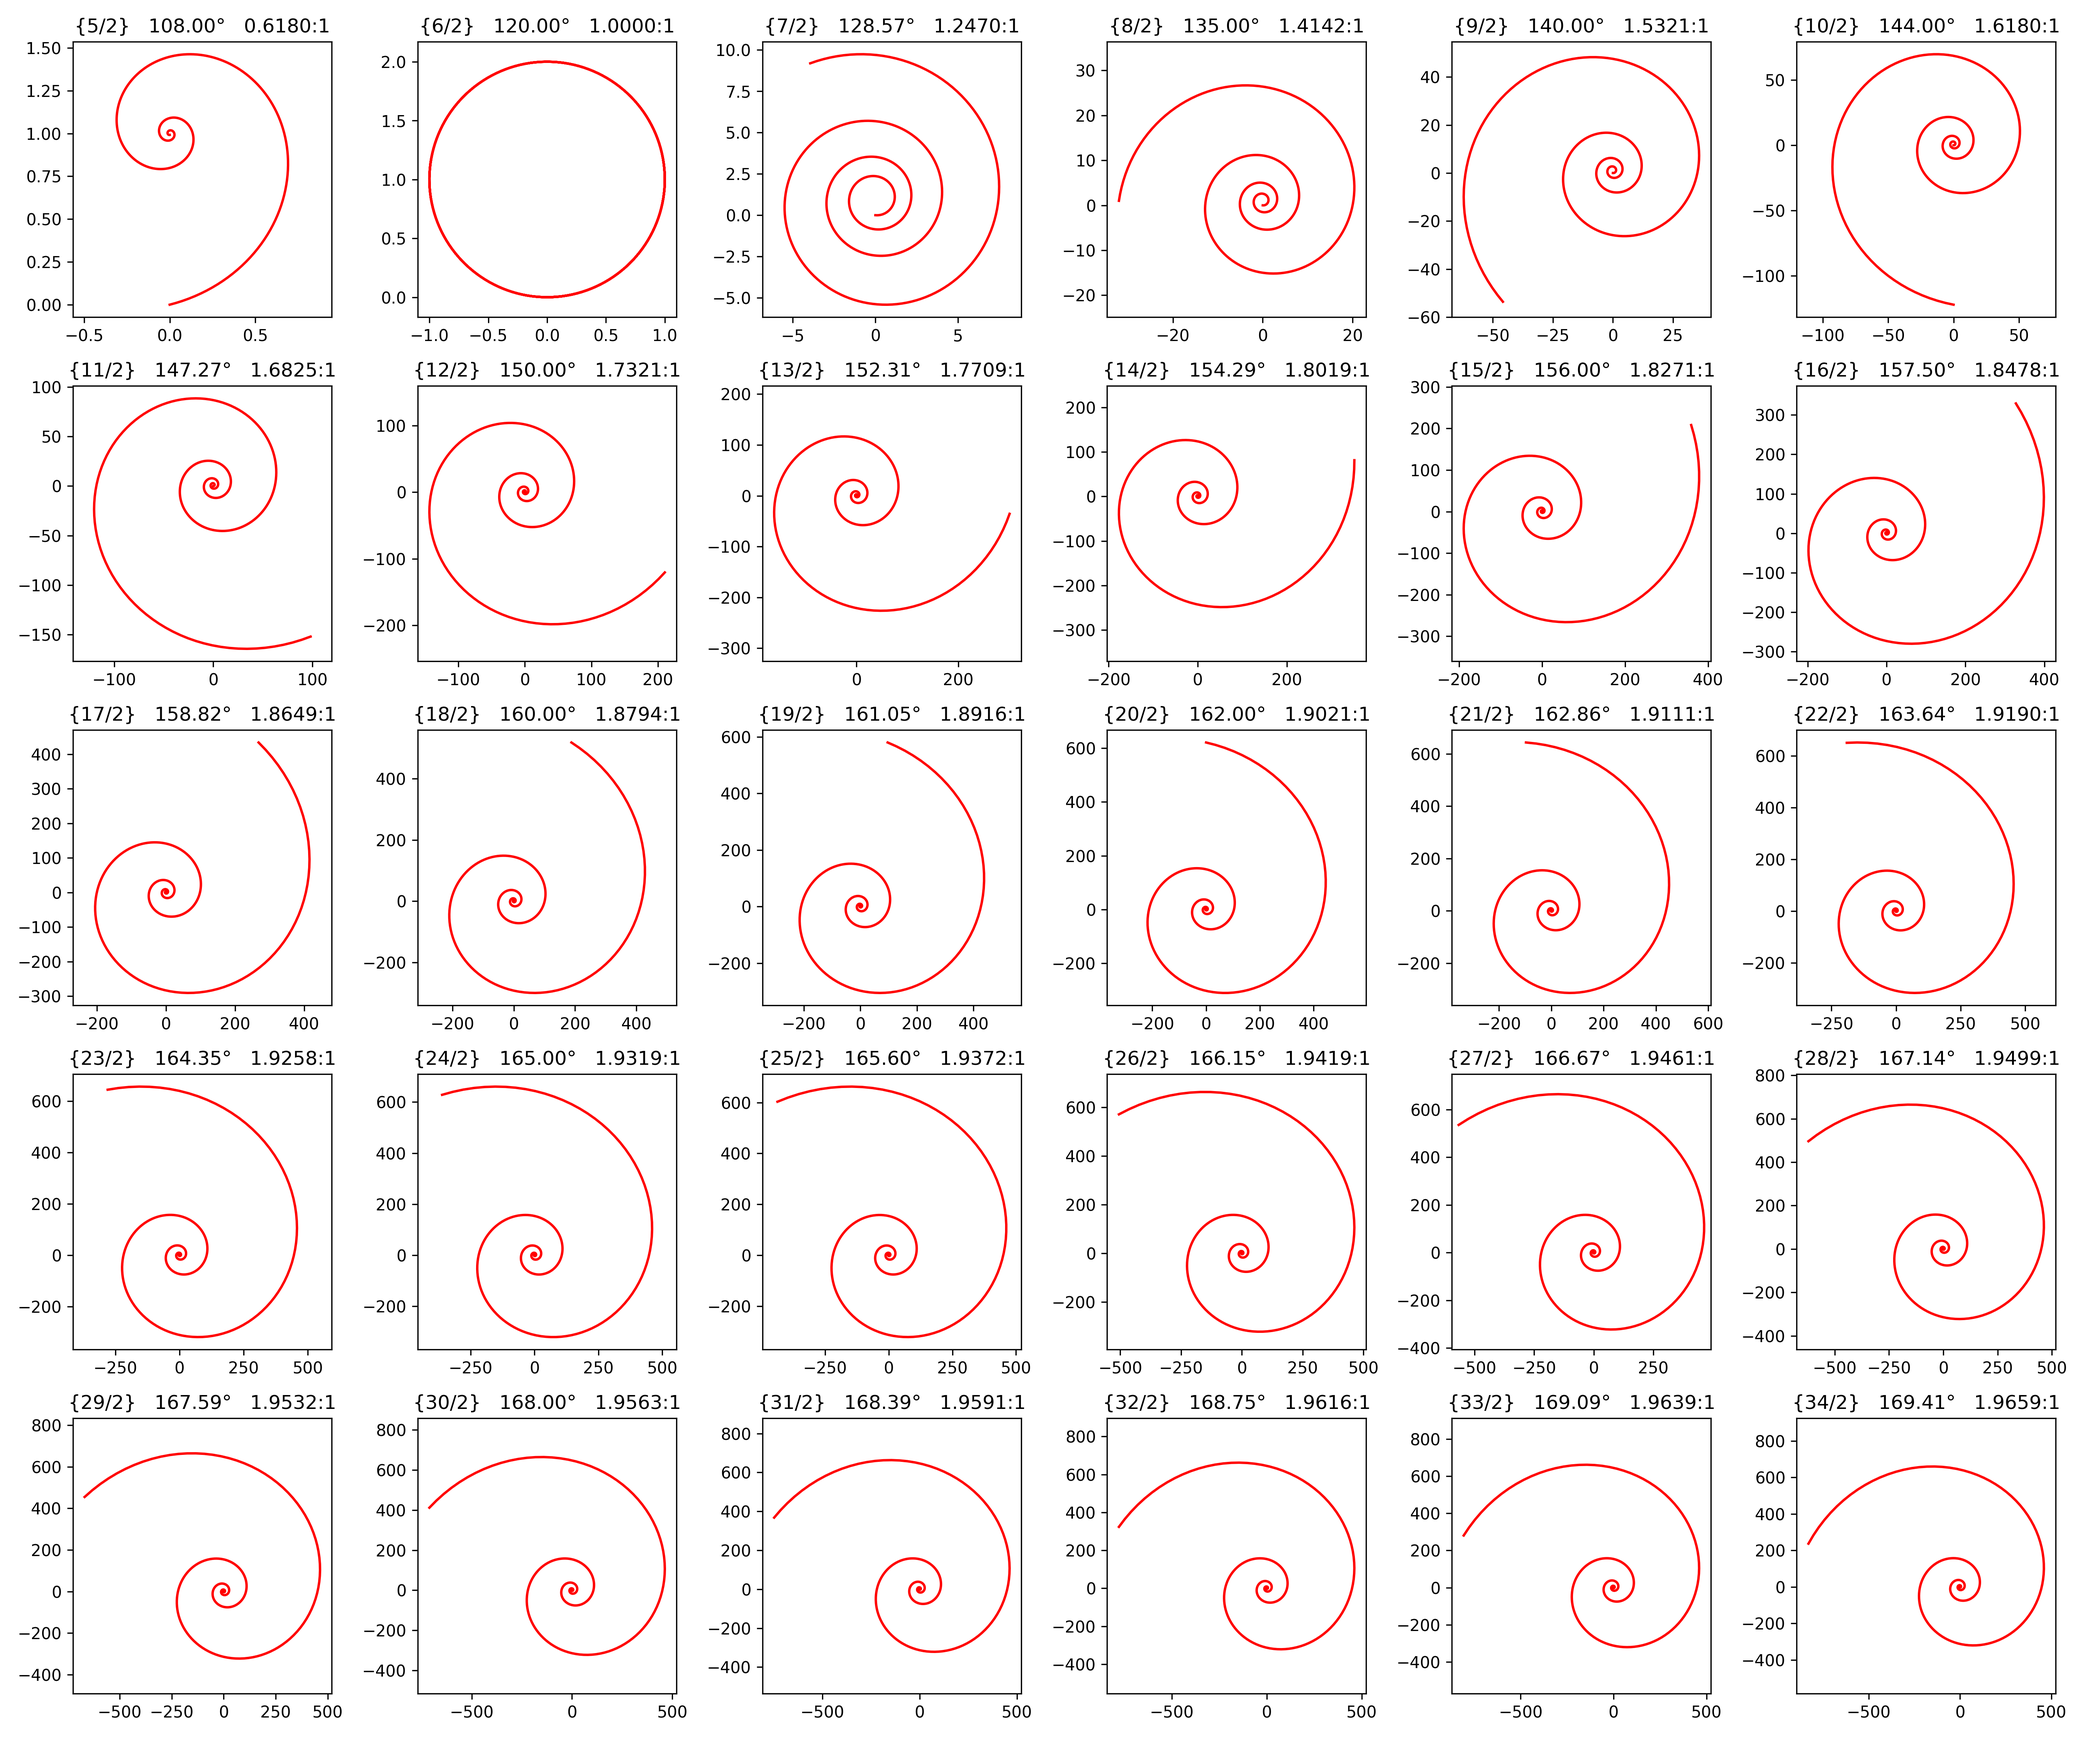
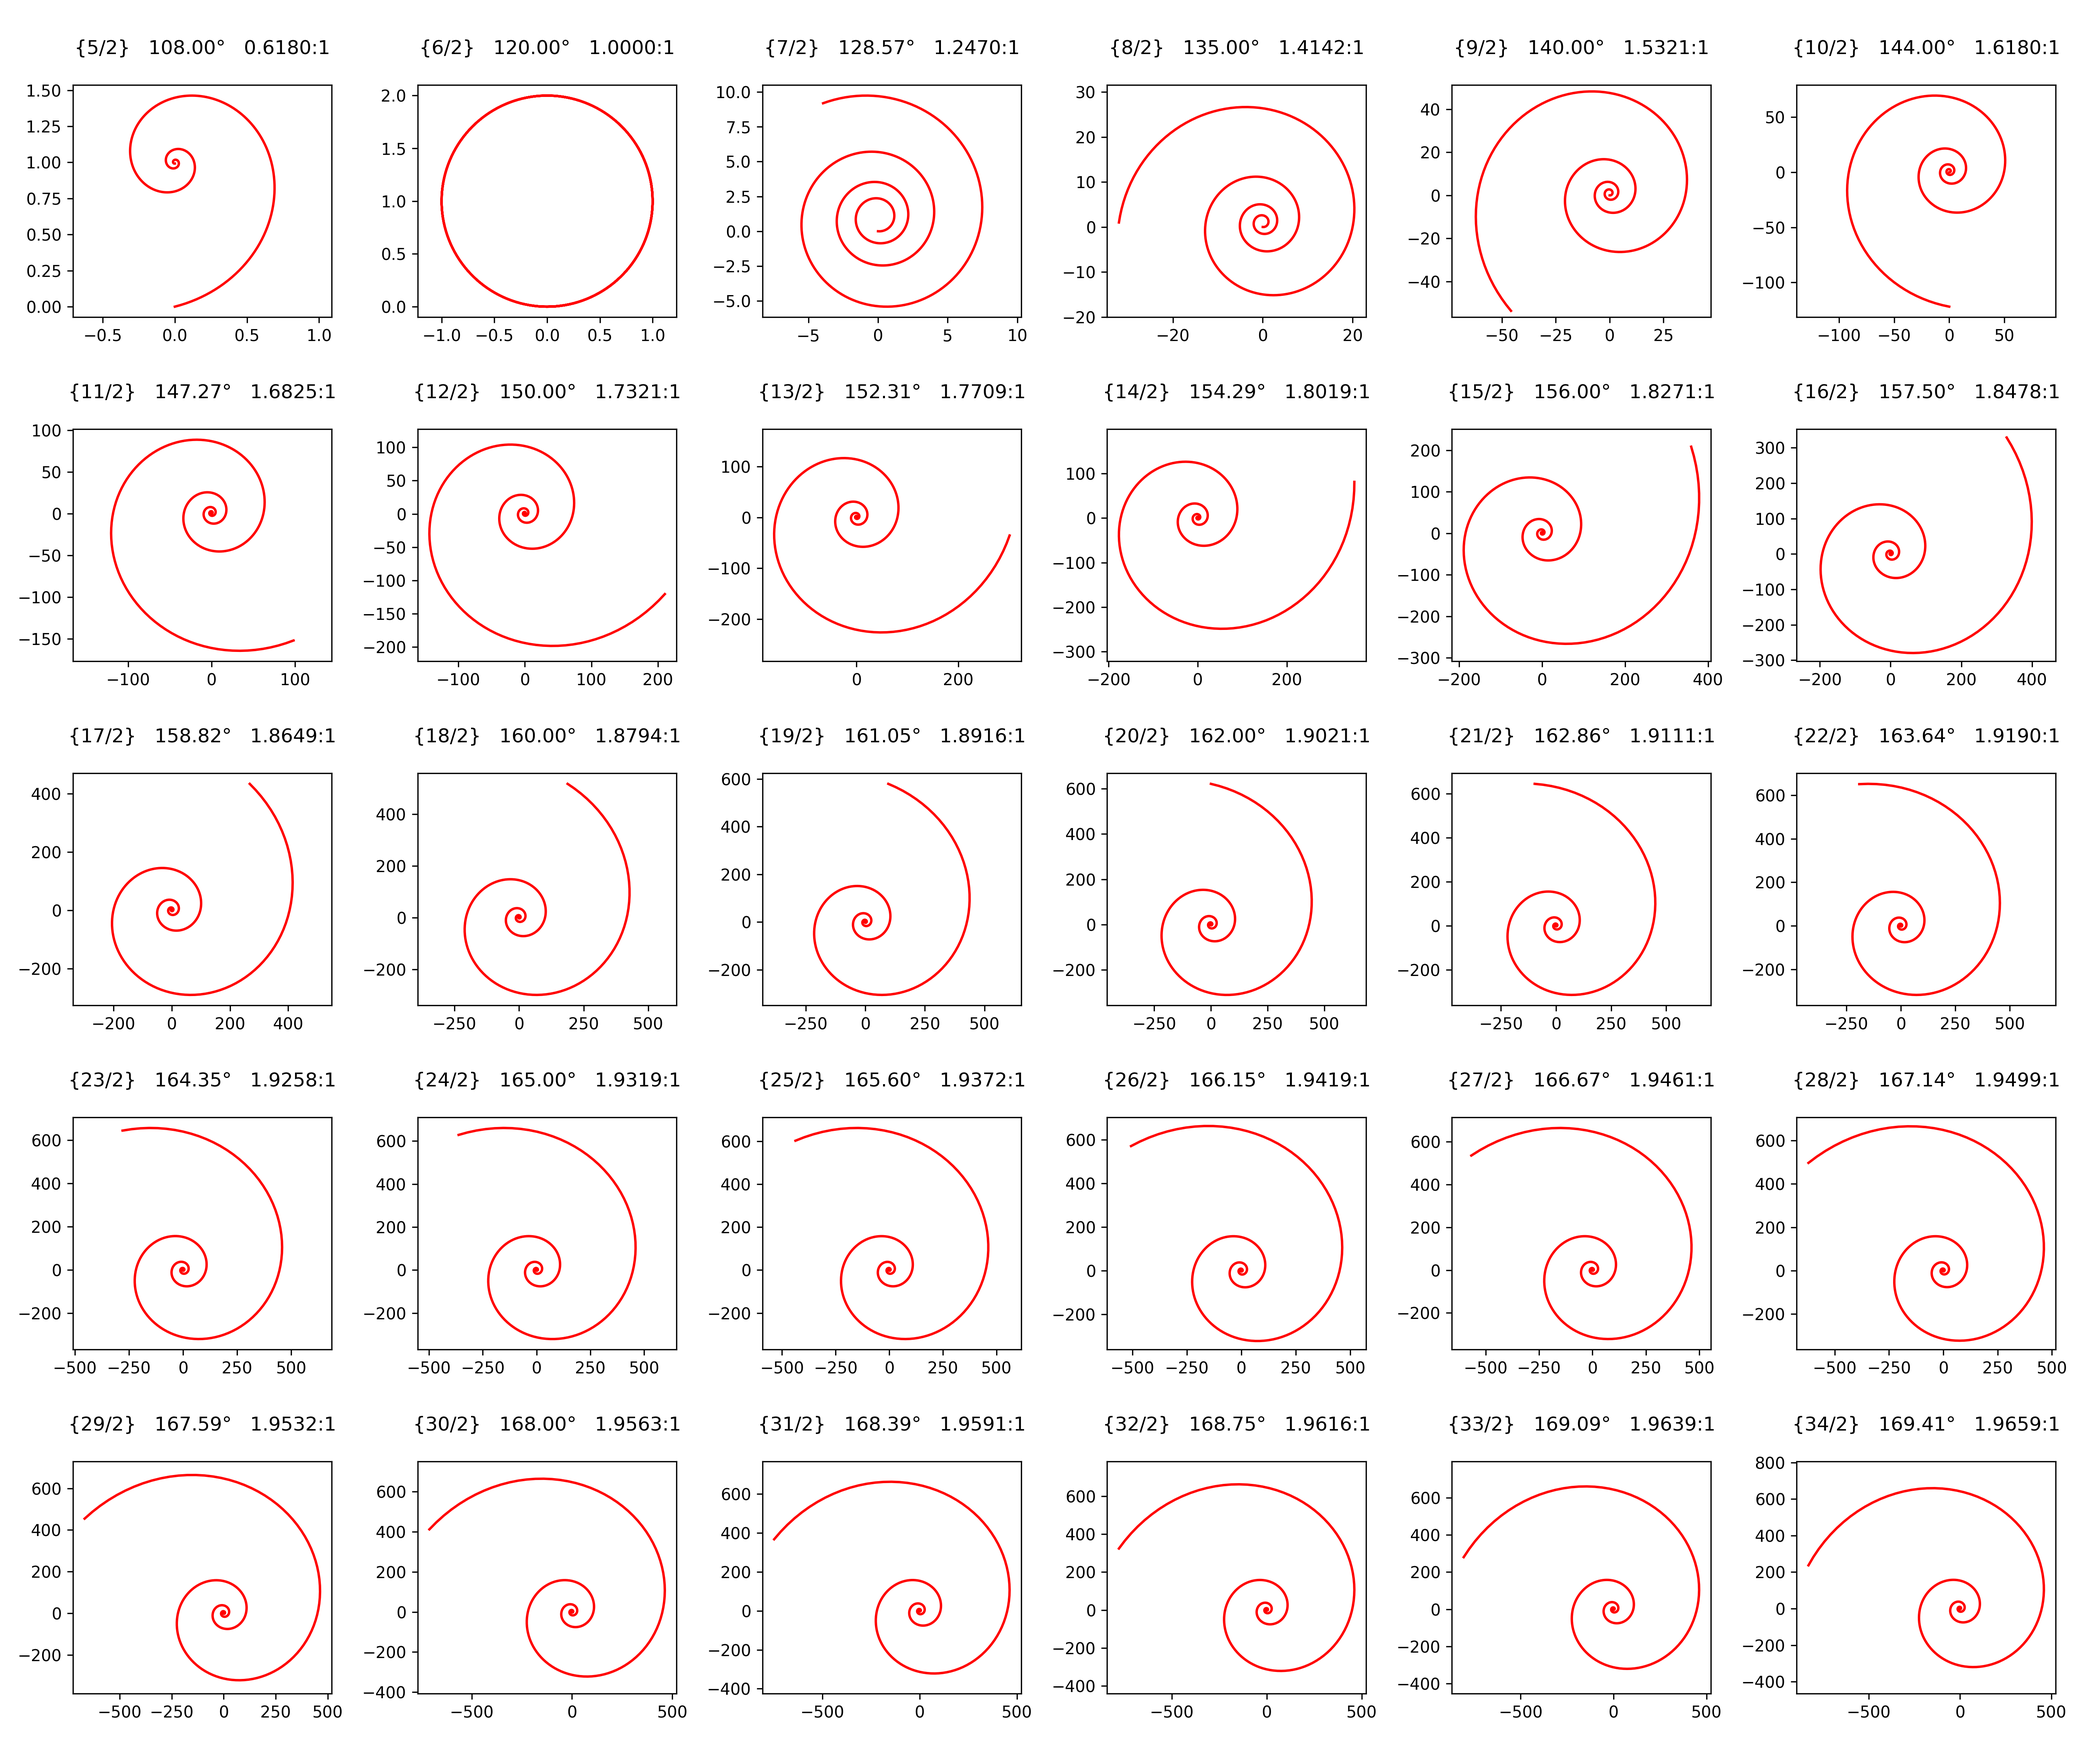
Note naming and diagram rotation adjustment

diff --git a/generate/calculations.py b/generate/calculations.py
@@ -5,7 +5,7 @@ from math import sin, cos, hypot, pi
 
 def plot_star_polygon(n, step, ax):
     """
-    Plot a regular star polygon on the given axes.
+    Plot a star polygon on the given axes.
     """
 
     ratio = retrieve_ratio(n, step)
@@ -41,6 +41,7 @@ def plot_logarithmic_spiral(n, step, ax):
     Plot a logarithmic spiral on the given axes.
     The spiral will go outward when the ratio > 1 and inward when ratio < 1.
     """
+
     ratio = retrieve_ratio(n, step)
     deg = 180 - (360 / n)
     theta_arc = np.radians(deg)
@@ -92,12 +93,12 @@ def plot_logarithmic_spiral(n, step, ax):
 
     ax.set_aspect("equal")
     ax.axis("equal")
-    ax.set_title(f"{{{n}/2}}   {deg:.2f}°   {ratio:.4f}:1")
+    ax.set_title(f"\n{{{n}/2}}   {deg:.2f}°   {ratio:.4f}:1\n")
 
 
 def generate_star_points(n, step, radius=1):
     """
-    Generate points for a regular star polygon with n vertices and step size.
+    Generate points for a star polygon with n vertices and step size.
     """
 
     points = []
@@ -183,10 +184,16 @@ def line_intersection(p1, p2, p3, p4):
 
 
 def rotate_points(points, angle):
-    """Rotate points around origin by given angle in radians."""
+    """
+    Rotate points around origin by given angle in radians.
+    For odd-sided polygons, adds additional rotation to get 2 points up.
+    """
+
+    n = len(points)
+    if n % 2 == 1:
+        angle += pi / n
 
     rotated = []
-
     for x, y in points:
         new_x = x * cos(angle) - y * sin(angle)
         new_y = x * sin(angle) + y * cos(angle)

diff --git a/generate/__main__.py b/generate/__main__.py
@@ -4,14 +4,14 @@ from .calculations import plot_star_polygon, plot_logarithmic_spiral
 from time import time
 
 parser = argparse.ArgumentParser(
-    description="Generate regular star polygons and corresponding logarithmic spirals"
+    description="Generate two-step star polygons and corresponding logarithmic spirals"
 )
 group = parser.add_mutually_exclusive_group(required=True)
 group.add_argument(
     "--polygrams",
     type=int,
     metavar="N",
-    help="plot multiple regular star polygons with N configurations",
+    help="plot multiple two-step star polygons with N configurations",
 )
 group.add_argument(
     "--spirals",
@@ -76,8 +76,8 @@ if polygrams or spirals:
             parser.exit(1)
 
     if polygrams:
-        name = "Regular Star Polygrams"
-        file = "regular_star_polygons.png"
+        name = "Two-Step Star Polygrams"
+        file = "star_polygons.png"
     elif spirals:
         name = "Logarithmic Spirals"
         file = "logarithmic_spirals.png"
@@ -97,8 +97,8 @@ if polygrams or spirals:
 elif polygram or spiral:
     if polygram:
         plot_star_polygon(polygram, 2, plt.gca())
-        name = "Regular Star Polygon"
-        file = "regular_star_polygon.png"
+        name = "Two-Step Star Polygon"
+        file = "star_polygon.png"
     elif spiral:
         plot_logarithmic_spiral(spiral, 2, plt.gca())
         name = "Logarithmic Spiral"
